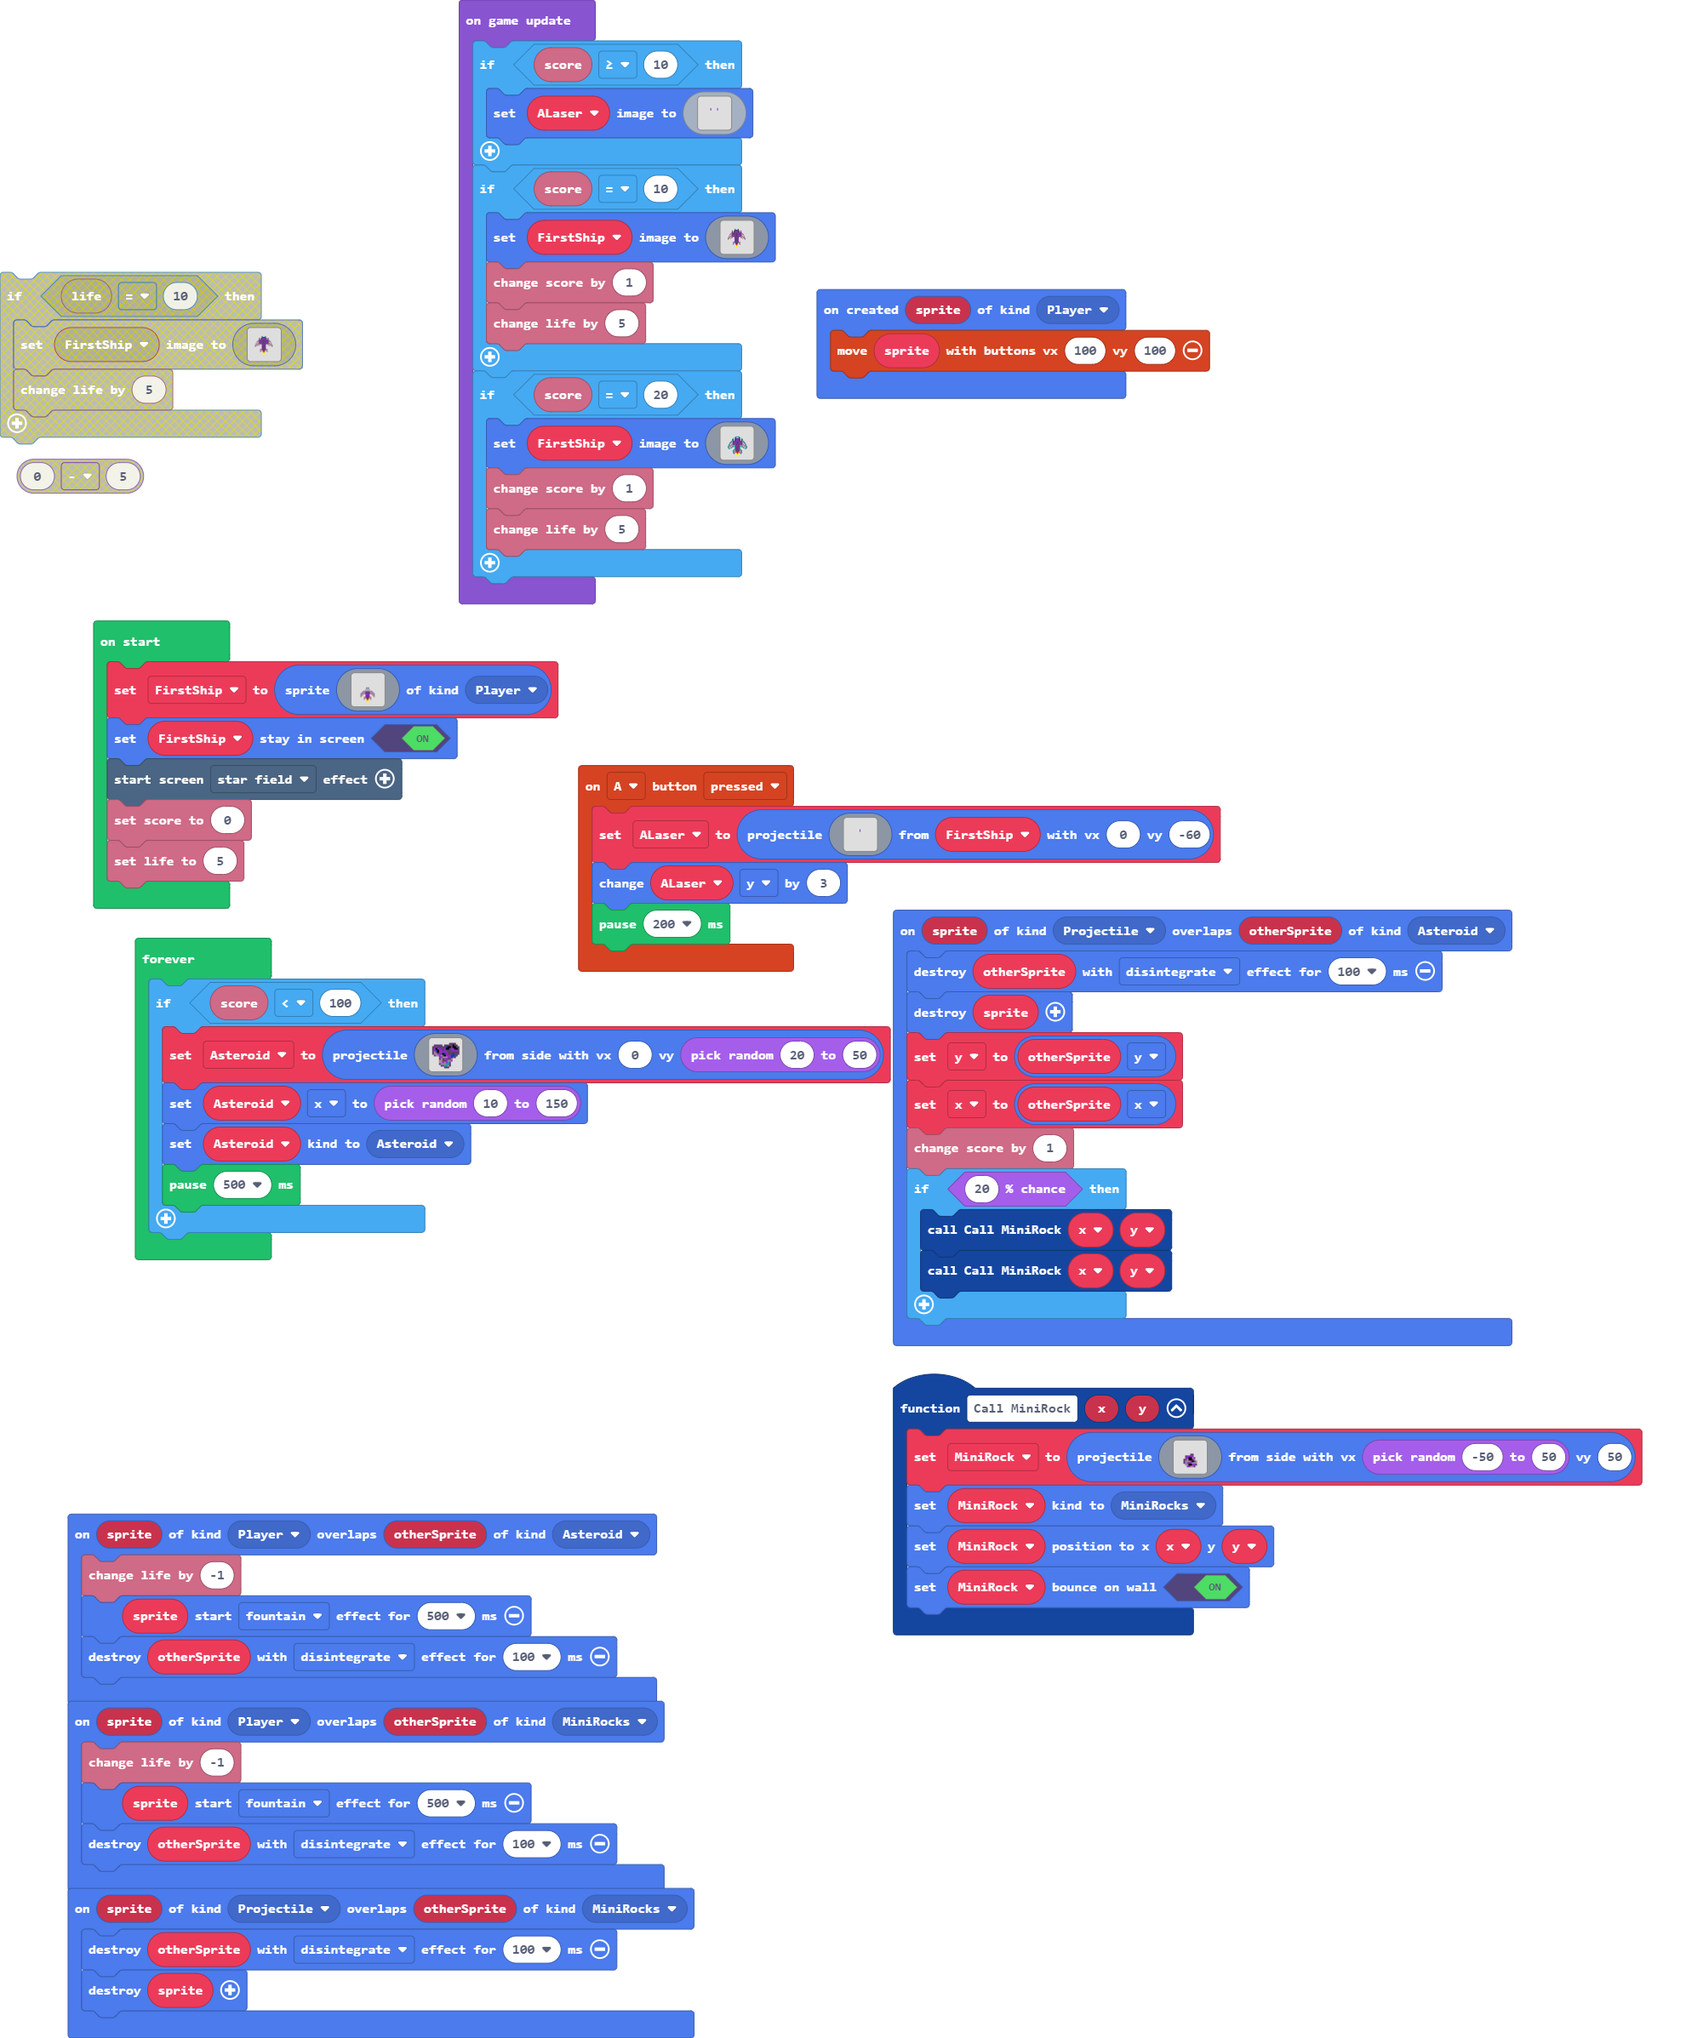
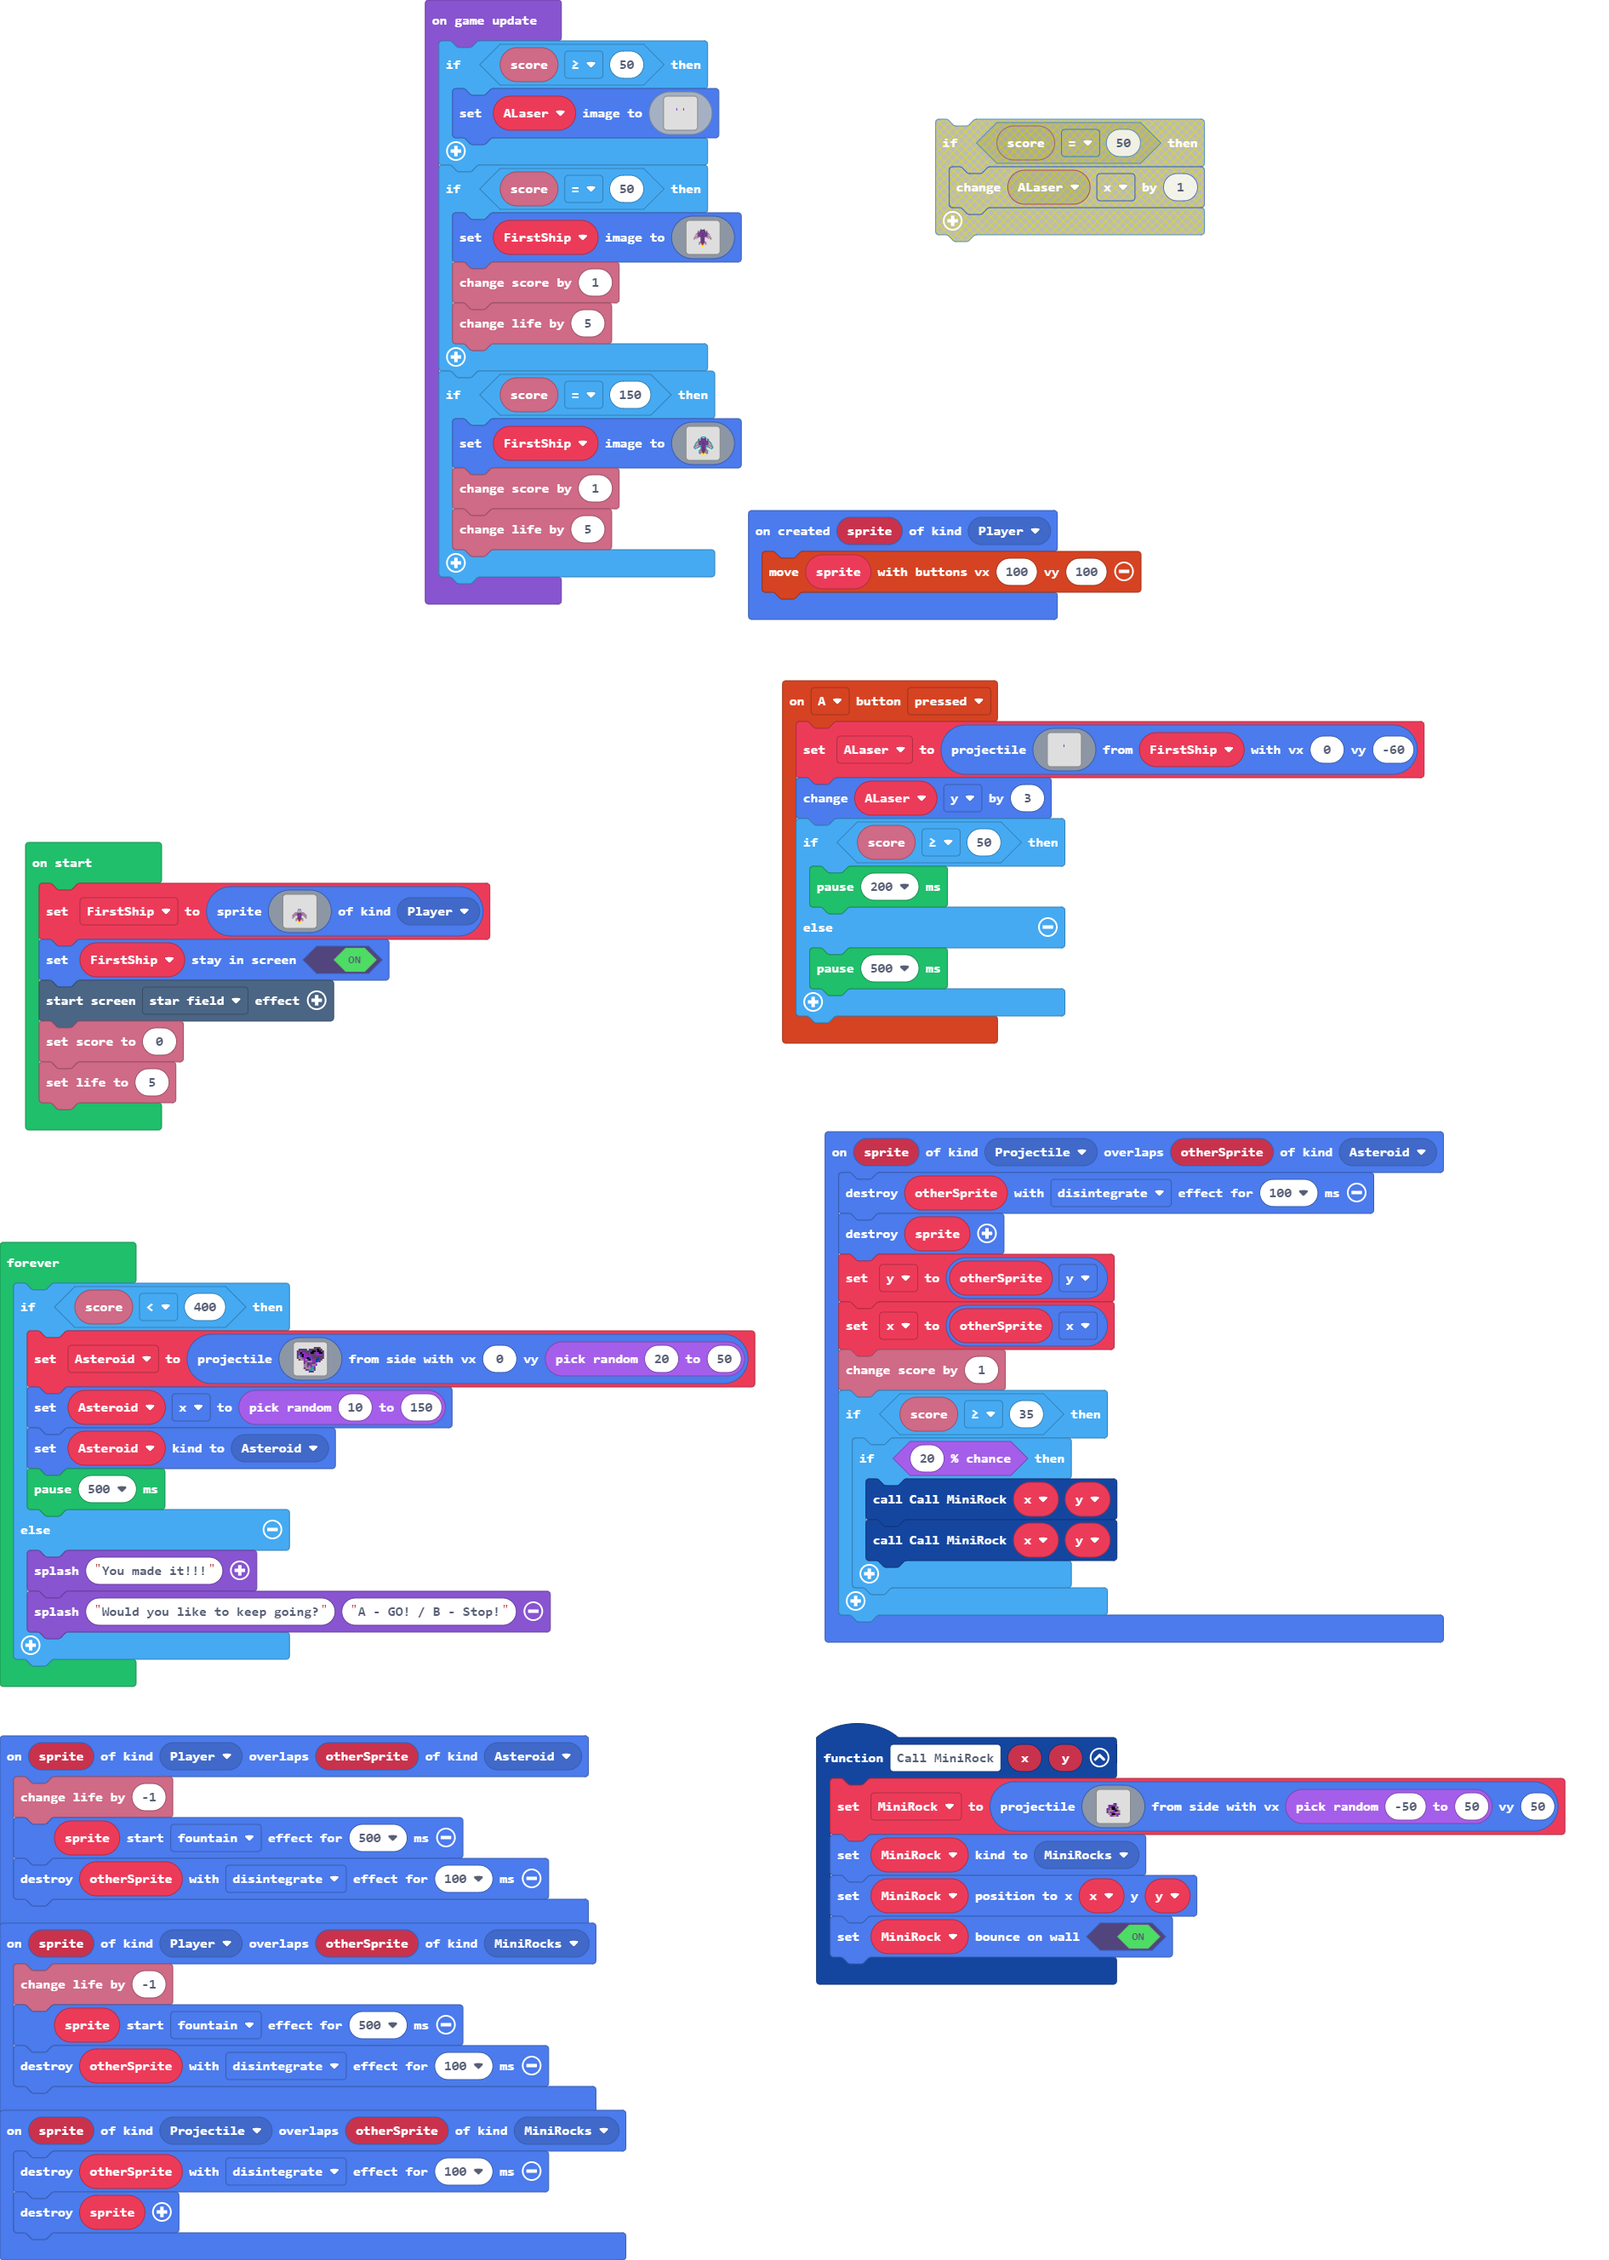
Update pxt.json, main.blocks, main.ts

diff --git a/main.ts b/main.ts
@@ -43,7 +43,11 @@ controller.A.onEvent(ControllerButtonEvent.Pressed, function () {
         ................................
         `, FirstShip, 0, -60)
     ALaser.y += 3
-    pause(200)
+    if (info.score() >= 50) {
+        pause(200)
+    } else {
+        pause(500)
+    }
 })
 function Call_MiniRock (x: number, y: number) {
     MiniRock = sprites.createProjectileFromSide(assets.image`MiniAsteriod`, randint(-50, 50), 50)
@@ -57,9 +61,11 @@ sprites.onOverlap(SpriteKind.Projectile, SpriteKind.Asteroid, function (sprite, 
     y = otherSprite.y
     x = otherSprite.x
     info.changeScoreBy(1)
-    if (Math.percentChance(20)) {
-        Call_MiniRock(x, y)
-        Call_MiniRock(x, y)
+    if (info.score() >= 35) {
+        if (Math.percentChance(20)) {
+            Call_MiniRock(x, y)
+            Call_MiniRock(x, y)
+        }
     }
 })
 sprites.onOverlap(SpriteKind.Player, SpriteKind.MiniRocks, function (sprite, otherSprite) {
@@ -87,7 +93,7 @@ effects.starField.startScreenEffect()
 info.setScore(0)
 info.setLife(5)
 game.onUpdate(function () {
-    if (info.score() >= 10) {
+    if (info.score() >= 50) {
         ALaser.setImage(img`
             ................................
             ................................
@@ -123,22 +129,25 @@ game.onUpdate(function () {
             ................................
             `)
     }
-    if (info.score() == 10) {
+    if (info.score() == 50) {
         FirstShip.setImage(assets.image`Secondship`)
         info.changeScoreBy(1)
         info.changeLifeBy(5)
     }
-    if (info.score() == 20) {
+    if (info.score() == 150) {
         FirstShip.setImage(assets.image`FinalShip`)
         info.changeScoreBy(1)
         info.changeLifeBy(5)
     }
 })
 forever(function () {
-    if (info.score() < 100) {
+    if (info.score() < 400) {
         Asteroid = sprites.createProjectileFromSide(assets.image`Asteroid 1`, 0, randint(20, 50))
         Asteroid.x = randint(10, 150)
         Asteroid.setKind(SpriteKind.Asteroid)
         pause(500)
+    } else {
+        game.splash("You made it!!!")
+        game.splash("Would you like to keep going?", "A - GO! / B - Stop!")
     }
 })
